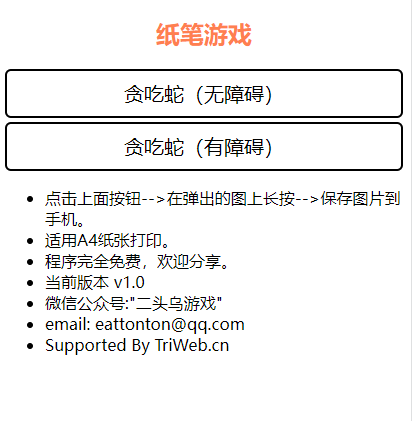
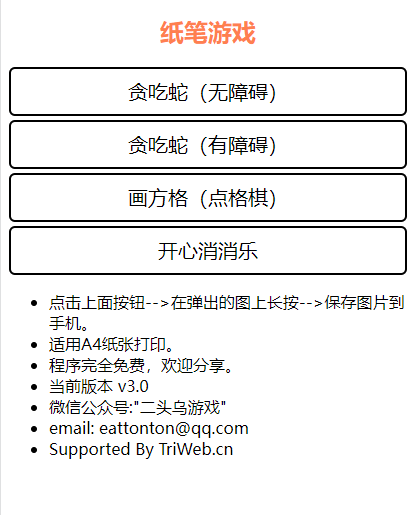
2022-10-23 C

Changed region(s): [[0.0, 0.0, 1.0, 1.0], [0.0583, 0.8646, 0.0874, 0.8955]]

diff --git a/js/snake.js b/js/snake.js
@@ -9,6 +9,7 @@ var datas = [];
 var hard = 8;
 
 var m_LineStyleWidth = 0.3;
+var m_CircleStyleWidth = 0.05;
 //记录划线的随机方向
 var m_randomDir2 = 0;
 //////////////////////
@@ -44,11 +45,14 @@ function CreateA4(category){
     
     rowNumber = 10;
     colNumber = 12;
-    datas = [];
+    
     //1.title
     if(category == 1 || category == 2){
         WriteText("纸笔游戏--贪吃蛇", 12.0, 2.0, 1.0);
-        CreateDot();
+        CreateDots();
+        if(category == 2){
+            CreateBlocks();
+        }  
         loadImg1('./image1.png',[250, 50, 180, 180]);
          //说明
         let strDesc ="玩法说明\n";
@@ -59,45 +63,73 @@ function CreateA4(category){
         colNumber = 6;
         WriteText("纸笔游戏--画方格", 12.0, 2.0, 1.0);
         WriteText("数量:A____    B____",4, 5, 0.5);
-        CreateDot(4, 6.5, 1.5);
+        CreateDots(4, 6.5, 1.5);
         WriteText("数量:A____    B____",18, 5, 0.5);
-        CreateDot(18, 6.5, 1.5);
+        CreateDots(18, 6.5, 1.5);
         loadImg1('./image2.png',[250, 50, 180, 180]);
 
         let strDesc ="玩法说明\n";
         strDesc += "双方轮流在相邻的两点之间画垂直或者水平直线，不能是斜线和跨格。\n如果画成一个方格，就占领这个方格，可以用A或者B进行标记，";
         strDesc += "并获\n得再次画一条线的机会。最后统计占领的格子数量，数量多的为获胜者。";
         WriteText(strDesc,6, 16, 0.5);
+    }else if(category == 4){
+        rowNumber = 8;
+        colNumber = 8;
+        WriteText("纸笔游戏--开心消消乐", 10.0, 2.0, 1.0);
+        CreateDots(3, 6, 1.2, 0.4);
+        CreateHiddenBlocks();
+        CreateDots(17, 6, 1.2, 0.4);
+        CreateHiddenBlocks();
+        loadImg1('./image3.png',[250, 50, 180, 180]);
+       
+        let strDesc ="玩法说明\n";
+        strDesc += "两个玩家轮流划掉1到3个圆，即每次可以划掉1，2，3个圆，但只能画直线。\n当圆被全部划掉时，游戏结束。";
+        strDesc += "划掉最后一个圆的人输掉。";
+        WriteText(strDesc,6, 17, 0.5);
     }
-    
-    if(category == 2){
-        CreateBlocks();
-    }
-   
-
-   
 }
-//A4 基础
-function CreateDot(startX, startY, dstep, dR) {
+//A4 画点
+function CreateDots(startX, startY, dstep, dR) {
     //2.draw box
     startX = startX || 8.5;
     startY = startY || 5;
     dstep = dstep || 1.5;
     dR = dR || 0.1;
-    
+
+    datas = [];
     for (let j = 0; j < rowNumber; j++) {
         let cy = j*dstep +startY;
         for (let i = 0; i < colNumber; i++) {
             let cx = i*dstep +startX;
             //0.记录点
-            datas.push(new Array(cx, cy));
+            datas.push(new Array(cx, cy, dR));
             //1.绘制
-            DrawCircle(cx, cy, dR, 0.05,0, "Gray");
+            DrawCircle(cx, cy, dR, m_CircleStyleWidth, 0, "Gray");
         }
     }
- 
 }
 
+//绘制隐藏圆
+function CreateHiddenBlocks(){
+    let num = RandomInt(0,30);
+    for(let i=0;i<num;i++){
+        let num2 = RandomInt(0,10);
+        if(num2 < 5){
+            continue;
+        }
+        let posArr = RandomPositions();
+        let pos1 = GetPosition(posArr[0], posArr[1]);
+        let pos2 = GetPosition(posArr[2], posArr[3]);
+    
+        let point1 = datas[pos1];
+        let point2 = datas[pos2];
+ 
+        DrawCircle(point1[0],point1[1],point1[2],m_CircleStyleWidth+0.02, 0, "White");
+    }
+}
+
+
+//绘制障碍
 function CreateBlocks(){
     let num = RandomInt(2,4);
     for(let i=0;i<num;i++){
@@ -105,6 +137,7 @@ function CreateBlocks(){
         CreateBlock();
     }
 }
+
 function CreateBlock(){
     //获得两点的线
     let posArr = RandomPositions();
@@ -126,6 +159,7 @@ function CreateBlock(){
     }
 }
 
+//计算随机位置
 function RandomPositions(){
     //计算 行 与 列
     let pos1 = RandomInt(0, rowNumber*colNumber-1);
@@ -134,6 +168,7 @@ function RandomPositions(){
     return colandrow.concat(colandrow2);
 }
 
+//计算随机位置的下一个位置
 function RandomPositionNext(pos1){
     let colandrow = GetColumnRow(pos1);
     //随机方向

diff --git a/index.html b/index.html
@@ -24,6 +24,7 @@
         <div class="button" onclick="CreateA4(1)">贪吃蛇（无障碍）</div>
         <div class="button" onclick="CreateA4(2)">贪吃蛇（有障碍）</div>
         <div class="button" onclick="CreateA4(3)">画方格（点格棋）</div>
+        <div class="button" onclick="CreateA4(4)">开心消消乐</div>
     </div>
     <div class="board">
         <canvas id="board" width="1754" height="1240" style="border: 1px solid #000;"></canvas>
@@ -34,7 +35,7 @@
             <li>点击上面按钮--&gt;在弹出的图上长按--&gt;保存图片到手机。</li>
             <li>适用A4纸张打印。</li>
             <li>程序完全免费，欢迎分享。</li>
-            <li>当前版本 v2.0</li>
+            <li>当前版本 v3.0</li>
             <li>微信公众号:"二头乌游戏"</li>
             <li>email: eattonton@qq.com</li>
             <li>Supported By TriWeb.cn</li>

diff --git a/env.js b/env.js
@@ -1,2 +1,2 @@
-const APP_VERSION = "2.0";
+const APP_VERSION = "3.0";
 const APP_BASE_URL = "./";
